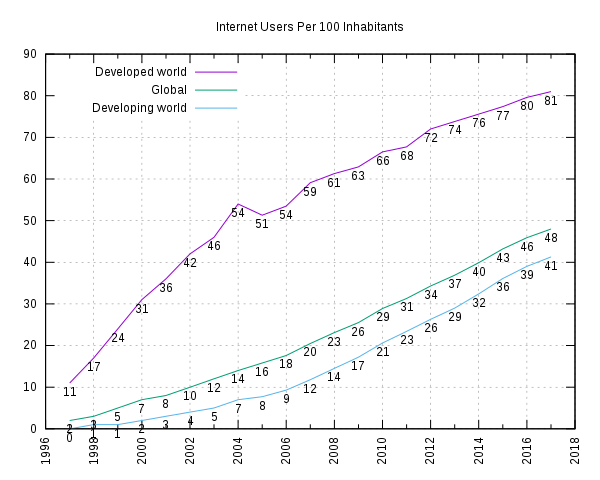
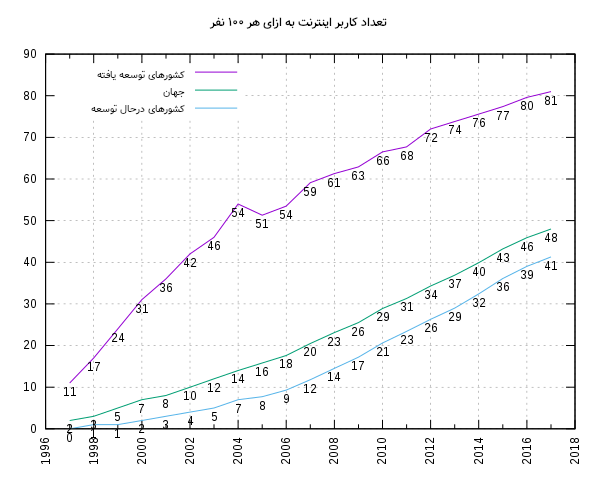
complate 1 article

Changed region(s): [[0.15, 0.125, 0.33, 0.25], [0.36, 0.0312, 0.66, 0.0625]]

diff --git a/content/posts/1397-11-13--web3 is comming/index.md b/content/posts/1397-11-13--web3 is comming/index.md
@@ -5,6 +5,110 @@ cover: web3Banner.jpg
 author: نوید گل پور
 ---
 
-در این مقاله نگاهی به تاریخ web نگاه میکنیم و آرزو میکنیم مشکلات web3 حل بشه و دنیا از مزایاش بهرهمند بشه، حتی اگه ما نباشیم اون روز رو ببینیم...
+![web3](web3Banner.jpg)
 
-##تغییر پارادایم: از web1 تا web3
+در این مقاله نگاهی به تاریخ
+**وب**
+میندازیم و آرزو میکنیم مشکلات
+**web3**
+حل بشه و دنیا از مزایاش بهرهمند بشه، حتی اگه ما نباشیم اون روز رو ببینیم...
+
+##نسل اول: web1
+
+![کامپیوترهای اولیه](web1.jpg)
+اگر به عقب برگردیم – حدوداً سالهای ۱۹۵۰ میلادی- با کامپیوترهایی مواجه میشیم که برخلاف کامپیوترها و موبایل ها امروزی بسیار حجیم بودن. اینقدر حجیم که فضای یک اتاق رو به صورت کامل پر میکردن و تنها دانشمندان و محققان امکان استفاده ازشون رو داشتن. «اینترنت» به عنوان یک ارتباط غیر peer-to-peer ، در رؤیاهای اون دانشمندان هم نمیگنجید.
+
+> تو مدل رایجتر اینترنت، یک سرور مرکزی داریم و همه کامپیوتر ها از طریق اون به همدیگه وصل میشن.
+> اگه از bitTorrent فیلم دانلود کرده باشین، احتمالاً میدونین که تو اون سیستم سرور مرکزی وجود نداره و تمام کامپیوترها مستقیماً به همدیگه متصل شدن و تیکه های فیلم و موسیقی رو برای همدیگه میفرستن.
+
+در سال ۱۹۶۹ یک برنامه تحقیقاتی به اسم
+[ARPANET](https://fa.wikipedia.org/wiki/%D8%A2%D8%B1%D9%BE%D8%A7%D9%86%D8%AA)
+توسط
+[اداره برنامهها و تحقیقات پیشرفته دفاعی آمریکا](https://fa.wikipedia.org/wiki/%D8%AF%D8%A7%D8%B1%D9%BE%D8%A7)
+یا «DARPA» اجرا شد که به پروژه های تحقیقاتی نظامی آمریکا این امکان استفاده مشترک از «سوپرکامپیوترها» رو میداد. پروژه ARPANET رو میتونیم نسخه اولیه اینترنت امروزی بدونیم.
+
+اگه کمی سریعتر حرکت کنیم، به سال ۱۹۹۳ میرسیم. جایی که اولین مرورگر اینترنتی به نام
+[NCSA Mosaic](https://en.wikipedia.org/wiki/Mosaic_%28web_browser%29)
+شروع به کار کرد.
+در سال ۱۹۹۵ مرورگر Netscape به بازار اومد و اینترنت رو به یک جریان تاثیرگذار در عالم تبدیل کرد.
+
+![https://fa.wikipedia.org/wiki/%D8%AF%D8%B3%D8%AA%D8%B1%D8%B3%DB%8C_%D8%B3%D8%B1%D8%A7%D8%B3%D8%B1%DB%8C_%D8%A8%D9%87_%D8%A7%DB%8C%D9%86%D8%AA%D8%B1%D9%86%D8%AA](web1-analytic.png)
+
+##نسل دوم: web2
+
+نسل بعدی
+**وب**
+بر شانه های غولهایی مثل گوگل و فیسبوک و آمازون رشد کرد.بانکداری الکترونیک اجازه پرداخت پول بر بستر اینترنت رو برای ما فراهم کرد. وبسایت هایی مثل ویکیپدیا و یوتیوب هم اومدن و به ما امکان جستجو درباره اطلاعات و فیلمها رو دادن.
+اینجا فرصت مناسبیه که یادی از اجدادیکی از وبسایت های خیلی محبوب امروز بکنیم:
+
+![عکس های قدیمی وبسایت های معروف](web2.png)
+
+فیسبوک و سایر شبکههای اجتماعی به افراد امکان دادن تا به راحتی به افراد دیگه - در هرکجای کره زمین- متصل بشن و باهاشون نوعی معاشرت مجازی رو انجام بدن.
+آمازون به عنوان یک کمپانی کتاب شروع کرد و حالا از شیر مرغ تا جون آدمیزاد، از کتابهای فیزیکی تا سرویسهای ابری رو عرضه میکنه.
+گوگل و سایر موتورهای جستجو با ایندکس کردن محتوای وب به ما امکان دادن به راحتی بتونیم به مطالب مختلف که روزانه از گوشه و کنار دنیا سربرمیارن، دسترسی داشته باشیم.
+
+**web2**
+حجم عظیمی از سرویس های فوقالعاده باکیفیت رو در اختیارمون گذاشت. سرویس های که در گذشته تصورش رو هم نداشتیم. همه اینها جالبتر میشه اگه فکر کنیم این همه سرویسها رو «رایگان» به دست آوردیم!
+اما واقعیت اینه که هیچ چیز رایگان نیست و گوگل و فیسبوک و آمازون هم بهای سرویسهاشون رو بیشتر از همه کمپانیهای سابق دنیا از ما گرفتن و میگیرن.
+
+> وقتی برای یک محصولی پولی بهایی نمیپردازید، بدانید که آنجا «محصول» خود شما هستید!
+
+اینها هزینههاییست که برای استفاده از هر سرویس متمرکزی (centralized service) میپردازیم:
+
+- تغییرات خودسرانه و یکطرفه
+  [قوانین سرویسدهی](https://fa.wikipedia.org/wiki/%D8%B4%D8%B1%D8%A7%DB%8C%D8%B7_%D9%88_%D9%85%D9%82%D8%B1%D8%B1%D8%A7%D8%AA_%D8%B3%D8%B1%D9%88%DB%8C%D8%B3%E2%80%8C%D8%AF%D9%87%DB%8C)
+  یا همون(Term of services)
+- واگذاری «حق مولف» به این کمپانی ها (شاید نمیدونین که قانوناً کمپانی فیسبوک و خیلی از پلتفرمهای دیگه مالک محتوایی هستن که شما توش تولید میکنین و به اشتراک میزارین)
+- برچیده شدن سرویس از طرف سرویس دهنده
+- سانسور
+- استفاده از اطلاعات ما برای «تبلیغات هدفمند» که شدیداً ناقض حریم خصوصی ماست.
+- دستکاری (مثلاً در نتایج جستجو)
+
+![گوگل هرطور که صلاح بدونه میتونه جستجوهای ما رو جهت دهی کنه](googleSuggest.jpeg)
+
+تاریخ وب به کرات شاهد پرداختن این هزینهها توسط مصرف کنندگان خدمات مرکزمحور – یا همون سرویس های متمرکز- هست .
+اگه بخوایم این برهه از تاریخ رو با نام این کمپانیها به خاطر بیاریم، شاید بد نباشه که در کنار تمام محصولات خوبی که به ما دادن، بهایی که براشون پرداختیم رو هم به خاطر بیاریم. بهایی که اونها رو جزو ثروتمندترین کمپانیهای تاریخ کرد!
+
+##نسل سوم: web3
+
+**روزنامه تایمز سوم ژوئن ۲۰۰۹: دولت انگلیس برای دومین بار به بانکها کمک میکند**
+
+این کنایهای هست که ۹ سال پیش،توی
+**بلاک صفر**
+بلاکچین بیتکوین (اولین بلاک زنجیره که به نام «جنسیس» مشهوره) نوشته شده و ضعف سیستمهای مالی متمرکز رو هدف قرار داده. بلاکچین انقلابی در حوزه مالیه، اما محدود به اون نیست. خیلی زود مردم فهمیدن که بلاکچین در حوزه هایی به غیر از «پول» هم کاربرد خیلی زیادی میتونه داشته باشه. مثلا:
+
+- تأیید هویت (فرضاً برای ثبت املاک و یا مدارک دانشگاهی)
+- لجستیک ( پیگیری زنجیره تامین)
+- سرمایهگذاری جمعی (Crowdfunding)
+- قمار
+  -شرط بندی
+- شبکههای اجتماعی
+- اینترنت چیزها
+- رایگیری
+- و …
+
+برای ساخت این خدمات نیاز به انجام محاسبات در یک روش شفاف و بدون واسطه وجود داشت، که مستلزم سانسور و تمرکز قدرت نباشه.
+این نیاز توسط سایر کریپتوکارنسی ها که به اصطلاح
+[colored coin](https://bitcoinist.com/colored-coins-work-bitcoin-blockchain/)
+یا سکههای رنگی نامیده میشن پوشش داده شد. این سکه ها در اصل لایههایی بودن که توسط زبان اسکریپت نویسی بیتکوین روی شبکه اصلی بیتکوین ساخته میشدن و هدفشون ذخیره اطلاعات اضافی روی شبکه بیتکوین بود.
+
+> بیتکوین دروازهای بود که تاریخ رو به نسل سوم **وب** وارد کرد.
+
+در نهایت نیاز به محاسبات پیچیدهتر و چند منظورهتر روی بلاکچین، باعث شد در سال 2015 **بلاکچین اتریوم**
+متولد بشه. اتریوم با اضافه کردن قابلیت **قراردادهای هوشمند** و ساختن توکن هایی برای اونها امکان ساخته شدن **اپلیکیشنهای غیرمتمرکز** رو به وجود آورد. اپلیکیشن هایی که به ما امکان میدن بدون نیاز به یک «سرور مرکزی» داده هامون رو تحلیل و تبادل کنیم. این اپلیکیشن ها رو به اختصار **Dapp** میگیم که مخفف عبارت Decentralized Application هست.
+
+قراردادهای هوشمند با نوشتن کدهایی ساده - که دادههایی رو روی بلاکچین اتریوم ذخیره میکردن - شروع شدن و امروزه در قالب اپلیکیشن های متنوعی عرضه میشن.
+اونها در واقع، امکان ساخت توکن های ERC20 که به عنوان «رمزارز» یا همون کریپتوکارنسی استفاده میشن، بازیهایی مثل کریپتوکیتی، صرافیها، اپلیکیشنهای اعطای وام، شبکههای اجتماعی، سایتهای خرید و فروش و تقریباً هر سرویس دیگه ای که امروزه «متمرکزها» به ما میدن، رو بدون نیاز به سرور مرکزی برای ما فراهم میکنن. وقتی از ذخیره داده توی سرورهای کمپانی ها خبری نباشه، از معایبی که در بالا گفتیم هم خبری نیست!
+
+البته Dapp ها هم فعلاً با مشکلات خاص خودشون دست به گریبانن که مانع استفاده گسترده ازشون میشه. مثلا:
+
+- پیچیدگی استفاده: کار کردن با اونها برای کاربران آموزش ندیده سخت و پیچیدست.
+- مقیاسپذیری: در حال حاضر این سیستمها نمیتونن صدها هزار تراکنش در ثانیه که ازشون انتظار میره رو مدیریت کنن.
+
+- امنیت: هرچند هک کردن این سیستمها به راحتی امکانپذیر نیست، اما در صورتی که اتفاق بیفته راهکاری برای برگردوندن اطلاعات و سرمایه ها به صاحبانش وجود نداره و این اصلاً خوشایند نیست. هک معروف
+  [DAO](https://arzdigital.com/seven-cryptocurrency-hacks/)
+  اهمیت این موضوع رو نشون میده.
+- حریم خصوصی: تمام اطلاعات روی شبکه اتریوم شفاف هستن و میتونن توسط همه کاربران دیده بشن. هرچند سکه هایی مثل monero، Zcash و … امکان پرداخت ناشناس رو دارن و خبرهایی هست که اتریوم هم میخواد این قابلیت رو اضافه کنه، اما خود این موضوع پیچیدگی هایی رو به وجود آورده که باید منتظر باشیم و ببینیم چطور قراره حل بشن. بخوام خیلی خلاصه این پیچیدگی ها رو نشون بدم اینطوری میشه: (پرداخت ناشناس= امکان پولشویی، پرداخت قابل دید برای همه= امکان نقض حریم خصوصی)
+
+##سخن پایانی
+همین که دانهای در دل خاک تیره قرار گرفت پیروز است. فقط مدتی صبر باید تا پیروزی آن را در قالب درخت مشاهده کنیم.
